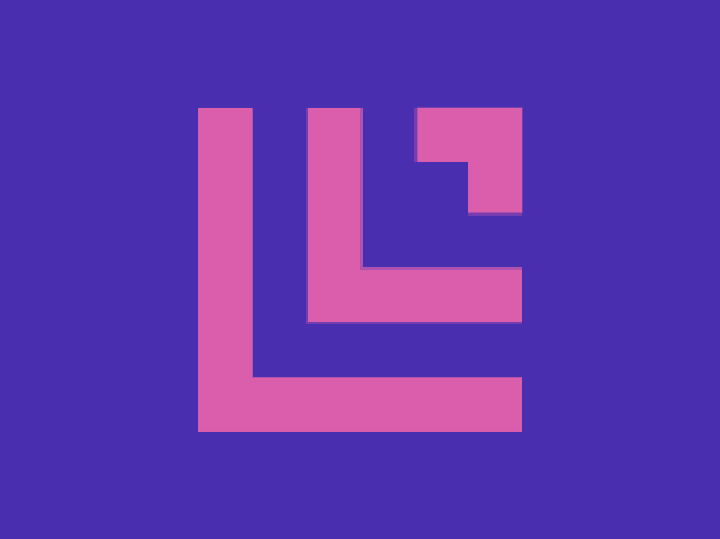
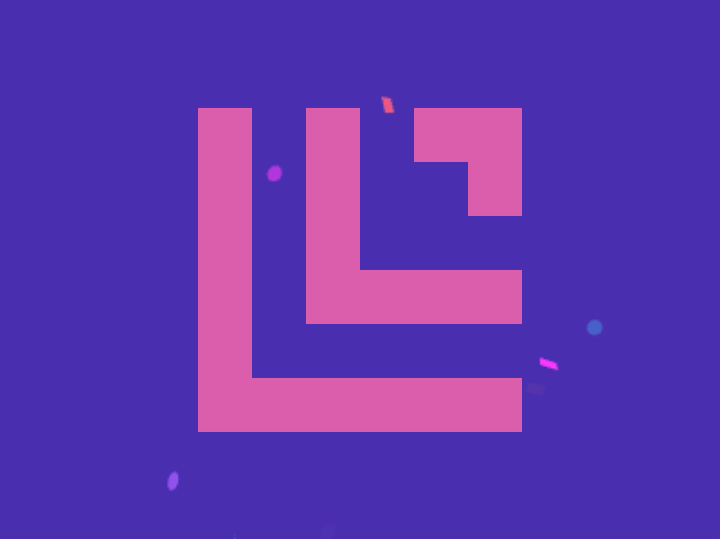
Score: 716.98, Characters: 129 (100.00% match) - CSSHub

diff --git a/README.md b/README.md
@@ -203,11 +203,11 @@
 </li>
 <li>
 <details>
-<summary><strong>November 2026 (2/2+)</strong></summary>
+<summary><strong>November 2026 (2/3+)</strong></summary>
 
 <ul>
 <li><a href="./Daily%20Targets/2026-11-01/">Nov 1, 2026</a> (245 Characters)</li>
-<li><a href="./Daily%20Targets/2026-11-02/">Nov 2, 2026</a> (132 Characters)</li>
+<li><a href="./Daily%20Targets/2026-11-02/">Nov 2, 2026</a> (129 Characters)</li>
 </ul>
 </details>
 </li>

diff --git a/Daily Targets/2026-11-02/README.md b/Daily Targets/2026-11-02/README.md
@@ -22,5 +22,5 @@ Challenge: <https://cssbattle.dev/play/yqo0rTLub7PXnnSupZQT>
 ## Code
 
 ```html
-<style>&{border:double;color:DB5EAD;border-width:0 0 5lh 5lh;margin:60 110;background:#492FB0;*{margin:30 30 0 0;box-shadow:32q -32q
+<style>&{border:double;color:DB5EAD;border-width:0 0 90 90;margin:60 110;background:#492fb0;*{margin:30;box-shadow:5vh -5vh 0 5vh
 ```
